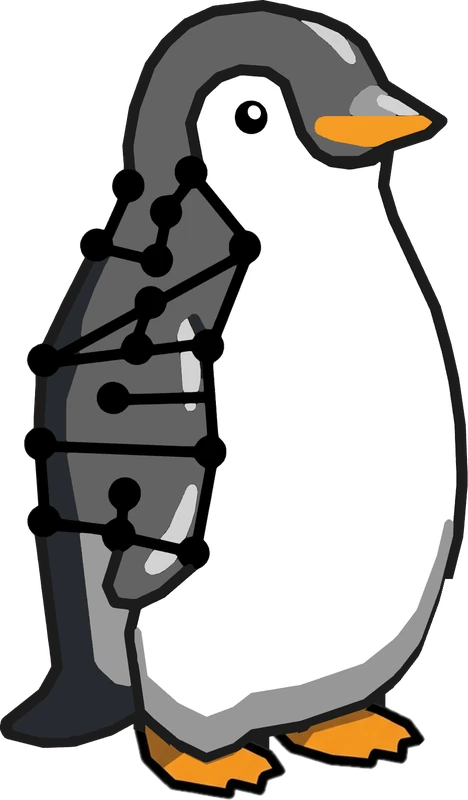
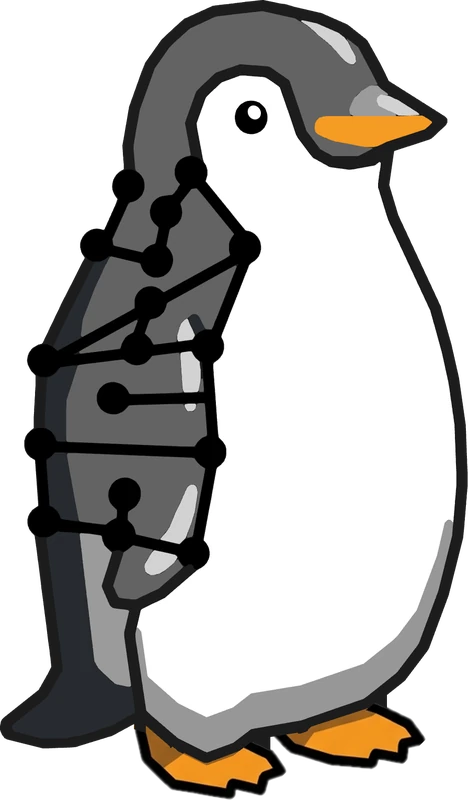
Actualiza el diseño de Peri y la imagen de vista previa

diff --git a/src/components/decor/PeriPenguin.jsx b/src/components/decor/PeriPenguin.jsx
@@ -10,11 +10,11 @@ import penguin from '../../assets/penguin.webp'
 //             still shows on a dark background (the footer)
 
 // Size of the drawing's viewBox.
-const W = 108.7
+const W = 108.8
 const H = 186.0
 
 // The drawing's outer outline, traced from the image.
-const OUTLINE = 'M53.6 185.6 L49.4 185.2 L39.5 183.3 L33.2 177.3 L32.5 175.7 L31.3 169.7 L30.5 168.4 L25.9 171.0 L17.6 173.5 L9.7 173.8 L1.1 171.5 L0.3 170.4 L0.3 167.3 L9.2 159.9 L11.8 155.0 L8.1 124.6 L6.4 122.1 L6.4 120.4 L6.9 119.2 L8.8 117.4 L8.1 107.0 L6.3 105.5 L5.6 104.1 L5.9 101.3 L7.8 99.3 L8.2 90.5 L8.2 87.1 L6.4 84.7 L6.4 82.6 L7.8 80.6 L10.0 79.5 L19.6 60.0 L18.5 57.5 L19.1 55.0 L21.1 53.3 L22.6 53.0 L23.9 53.4 L26.8 47.6 L27.3 46.3 L25.9 43.4 L26.9 40.6 L28.7 39.1 L28.4 33.7 L29.9 24.7 L34.2 13.7 L37.5 9.1 L42.9 4.2 L49.3 1.3 L57.0 0.3 L63.1 0.3 L74.2 2.9 L81.0 5.9 L85.5 9.6 L90.1 18.5 L90.8 19.1 L103.8 27.6 L103.6 28.9 L100.2 32.1 L92.1 34.8 L91.4 35.4 L90.3 42.9 L92.4 49.8 L102.4 71.1 L105.0 80.7 L106.6 87.7 L108.2 98.6 L108.3 116.4 L107.6 124.9 L105.1 134.5 L103.6 134.5 L103.2 135.0 L101.7 140.7 L97.3 152.5 L93.1 157.9 L89.5 161.3 L89.5 164.1 L90.6 165.0 L95.2 167.2 L98.3 171.3 L98.5 172.2 L97.4 173.2 L95.1 173.7 L94.7 174.1 L94.5 176.3 L93.4 177.4 L88.2 176.6 L86.4 178.5 L83.8 178.5 L77.0 177.9 L68.4 175.4 L65.8 173.7 L63.5 171.1 L62.9 171.1 L62.5 171.5 L62.5 174.0 L65.8 178.2 L66.0 179.7 L65.1 180.4 L62.7 181.1 L62.0 181.7 L61.5 183.8 L60.7 184.7 L54.9 183.5 L54.2 185.1 L53.6 185.6 Z'
+const OUTLINE = 'M53.7 185.6 L49.6 185.2 L39.6 183.3 L33.4 177.2 L32.6 175.7 L31.4 169.7 L30.6 168.6 L25.9 171.1 L17.6 173.7 L9.7 173.9 L1.1 171.6 L0.3 170.6 L0.3 167.4 L9.2 160.0 L11.9 155.1 L8.1 124.7 L6.4 122.2 L6.4 120.5 L6.9 119.3 L8.8 117.4 L8.1 107.1 L6.3 105.5 L5.7 104.2 L5.9 101.4 L7.8 99.3 L8.2 90.6 L8.2 87.2 L6.4 84.7 L6.4 82.7 L7.8 80.7 L10.0 79.5 L19.6 60.1 L18.5 57.5 L19.1 55.1 L21.2 53.3 L22.6 53.1 L23.9 53.4 L26.8 47.7 L27.3 46.3 L26.0 43.4 L26.9 40.6 L28.8 39.1 L28.4 33.7 L30.0 24.7 L34.2 13.7 L37.5 9.1 L42.9 4.2 L49.4 1.3 L57.0 0.3 L63.1 0.3 L74.3 2.9 L81.1 5.9 L85.5 9.6 L90.1 18.5 L90.8 19.1 L103.9 27.6 L103.6 28.9 L100.3 32.2 L92.1 34.8 L91.5 35.4 L90.4 42.9 L92.5 49.8 L102.4 71.1 L105.1 80.7 L106.7 87.8 L108.3 98.7 L108.4 116.5 L107.6 125.0 L104.4 138.0 L99.7 150.5 L94.4 157.8 L89.9 161.6 L89.9 164.2 L90.8 165.0 L95.4 167.2 L98.5 171.3 L98.7 172.1 L97.6 173.2 L95.3 173.7 L94.9 174.1 L94.6 176.3 L93.6 177.4 L88.4 176.6 L86.6 178.5 L84.0 178.5 L77.2 177.9 L68.6 175.4 L66.0 173.7 L63.8 171.2 L63.2 171.2 L62.8 171.7 L62.8 174.1 L66.0 178.2 L66.2 179.7 L65.3 180.3 L62.9 181.1 L62.2 181.7 L61.7 183.8 L60.9 184.7 L55.1 183.5 L54.4 185.1 L53.7 185.6 Z'
 
 export default function PeriPenguin({ className = '', flip = false, question = false, halo = null }) {
   return (
